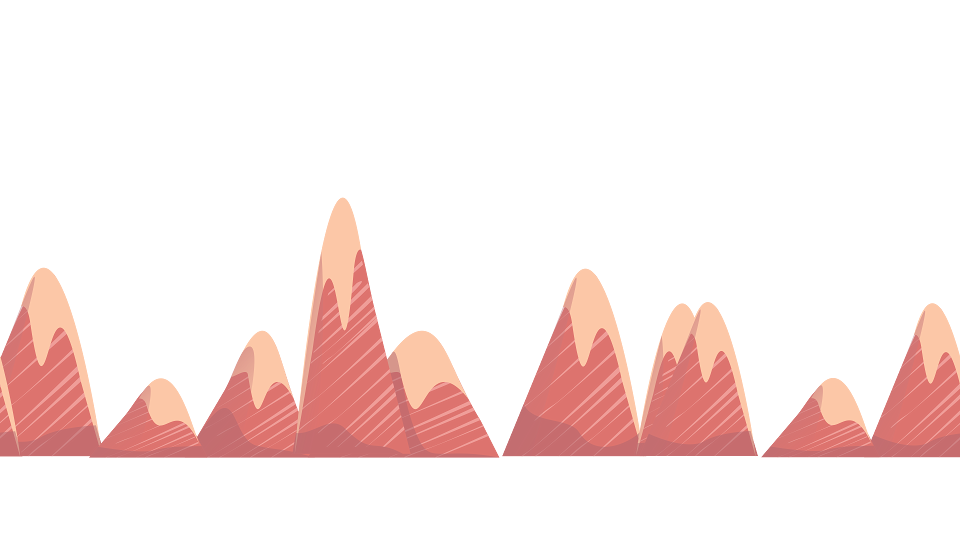
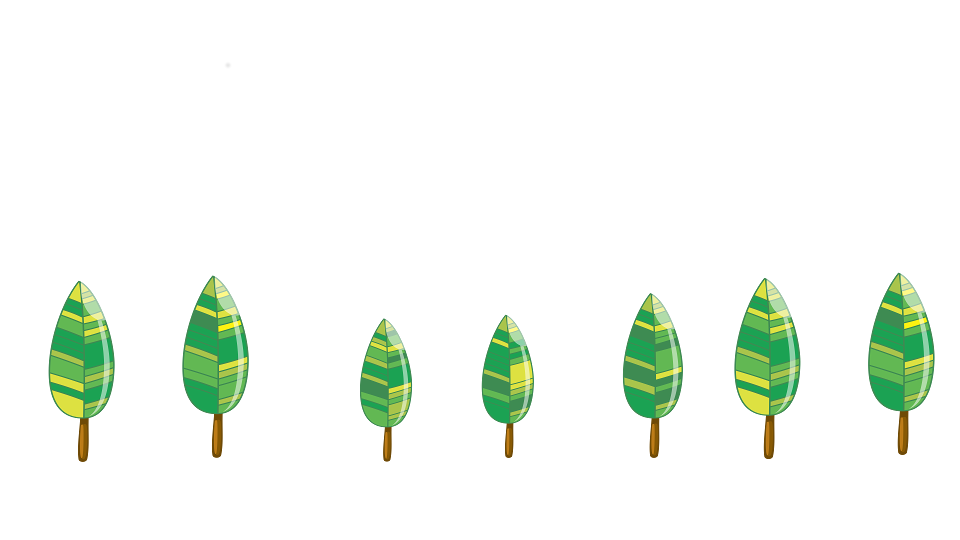
add scrolling backgrounds

Changed region(s): [[0.0, 0.3556, 1.0, 0.8593]]

diff --git a/script.js b/script.js
@@ -9,6 +9,26 @@ https://www.kenney.nl/assets/platformer-characters-1
 https://www.kenney.nl/assets/platformer-art-extended-enemies
 */
 
+//background images
+
+let backgroundFive = document.createElement("img");
+backgroundFive.src = "assets/background5.png"
+let backgroundFiveX = 0
+
+let backgroundFour = document.createElement("img");
+backgroundFour.src = "assets/background4.png"
+let backgroundFourX = 0
+
+let backgroundThree = document.createElement("img");
+backgroundThree.src = "assets/background3.png"
+let backgroundThreeX = 0
+
+let backgroundTwo = document.createElement("img");
+backgroundTwo.src = "assets/background2.png"
+let backgroundTwoX = 0
+
+let backgroundOne = document.createElement("img");
+backgroundOne.src = "assets/background1.png"
 
 //sprite images
 let playerImg = document.createElement("img");
@@ -25,7 +45,7 @@ let actorSpeed = 0.2
 
 const player = {
 	x: 5,
-	y: 27.7,
+	y: 36.7,
 	width: 6,
 	height: 9,
 	velocityY: 0,
@@ -37,7 +57,7 @@ const baddieOne = {
 	draw: drawBaddieSprite,
 	drawTwo: drawBaddie,
 	x: 55,
-	y: 28,
+	y: 37,
 	width: 5,
 	height: 9,
 	counted: false,
@@ -68,7 +88,7 @@ const baddieTwo = {
 	draw: drawBaddieSprite,
 	drawTwo: drawBaddie,
 	x: 100,
-	y: 28,
+	y: 37,
 	width: 5,
 	height: 9,
 	counted: false,
@@ -84,7 +104,7 @@ const baddieThree = {
 	draw: drawBaddieSprite,
 	drawTwo: drawBaddie,
 	x: 140,
-	y: 28,
+	y: 37,
 	width: 5,
 	height: 9,
 	counted: false,
@@ -97,15 +117,17 @@ const baddieThree = {
 
 let actors = [baddieOne, baddieTwo, baddieThree];
 
-let introComplete = false;
+let introComplete = true;
 let nextActorFrame = 0
 let cycle = 0
 let lastReplace = 200;
 let framesSinceReplace = 0
 
 function draw(deltaTime, time) {
-	context.fillStyle = '#E0FBFC';
-	context.fillRect(0, 0, canvas.width, canvas.height)
+	//context.fillStyle = '#E0FBFC';
+	//context.fillRect(0, 0, canvas.width, canvas.height)
+	context.clearRect(0, 0, canvas.width, canvas.height)
+	drawBackground();
 	if(player.velocityY !== 0) {
 		jump(deltaTime);
 	}
@@ -146,7 +168,7 @@ function draw(deltaTime, time) {
 }
 const introBaddie = {
 	x: 80,
-	y: 28,
+	y: 37,
 	width: 5,
 	height: 9,
 	counted: false
@@ -209,6 +231,59 @@ function introOnRails() {
 function drawPlayer() {
 	context.fillStyle = '#98C1D9';
 	context.fillRect(player.x, player.y, player.width, player.height);
+}
+
+function drawBackground() {
+	context.drawImage(backgroundOne,
+				  0, 0, canvas.width, canvas.height,
+				  0, 0, canvas.width/10, canvas.height/10)
+	
+	//IMAGE TWO
+	context.drawImage(backgroundTwo,
+					  0, 0, canvas.width, canvas.height,
+					  backgroundTwoX/10, 0, canvas.width/10, canvas.height/10)
+	context.drawImage(backgroundTwo,
+				 	  0, 0, canvas.width, canvas.height,
+				 	  backgroundTwoX/10 + canvas.width/10, 0, canvas.width/10, canvas.height/10)
+	backgroundTwoX -= 0.5
+	if (-backgroundTwoX == canvas.width) {
+		backgroundTwoX = 0;
+	}
+	
+	//IMAGE THREE
+	context.drawImage(backgroundThree,
+					  0, 0, canvas.width, canvas.height,
+					  backgroundThreeX/10, 0, canvas.width/10, canvas.height/10)
+	context.drawImage(backgroundThree,
+				 	  0, 0, canvas.width, canvas.height,
+				 	  backgroundThreeX/10 + canvas.width/10, 0, canvas.width/10, canvas.height/10)
+	backgroundThreeX -= 1
+	if (-backgroundThreeX == canvas.width) {
+		backgroundThreeX = 0;
+	}
+	/*
+		//IMAGE FOUR
+	context.drawImage(backgroundFour,
+					  0, 0, canvas.width, canvas.height,
+					  backgroundFourX/10, 0, canvas.width/10, canvas.height/10)
+	context.drawImage(backgroundFour,
+				 	  0, 0, canvas.width, canvas.height,
+				 	  backgroundFourX/10 + canvas.width/10, 0, canvas.width/10, canvas.height/10)
+	backgroundFourX -= 2
+	if (-backgroundFourX == canvas.width) {
+		backgroundFourX = 0;
+	}*/
+		//IMAGE FIVE
+	context.drawImage(backgroundFive,
+					  0, 0, canvas.width, canvas.height,
+					  backgroundFiveX/10, 0, canvas.width/10, canvas.height/10)
+	context.drawImage(backgroundFive,
+				 	  0, 0, canvas.width, canvas.height,
+				 	  backgroundFiveX/10 + canvas.width/10, 0, canvas.width/10, canvas.height/10)
+	backgroundFiveX -= 2
+	if (-backgroundFiveX == canvas.width) {
+		backgroundFiveX = 0;
+	}
 }
 
 function drawPlayerSprite() {
@@ -285,8 +360,8 @@ function jump(deltaTime) {
 	let timeInSec = deltaTime/1000
 	player.velocityY += gravityAccelY * timeInSec;
 	player.y += player.velocityY * timeInSec;
-	if (player.y > 27.7) {
-    	player.y = 27.7; // assuming the ground is at height 20
+	if (player.y > 36.7) {
+    	player.y = 36.7; // assuming the ground is at height 20
     	player.velocityY = 0;
 	}
 }

diff --git a/main.css b/main.css
@@ -12,8 +12,6 @@ p, .score {
 #stage {
 	display: flex;
 	justify-content: center;
-	/*margin: auto;
-	display: block;*/
 	margin-top: 20px;
 }
 
